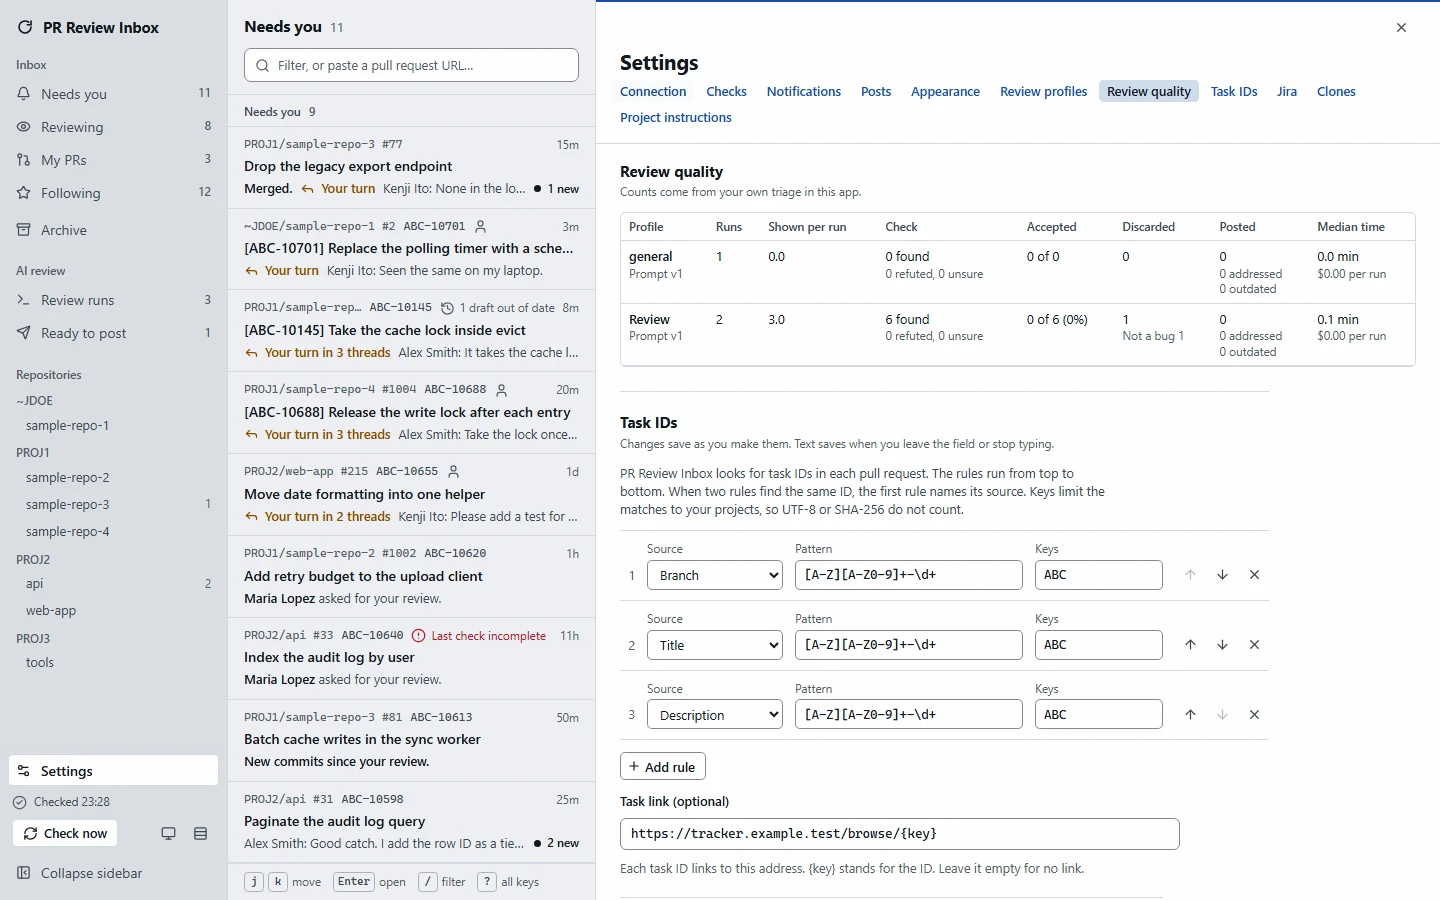
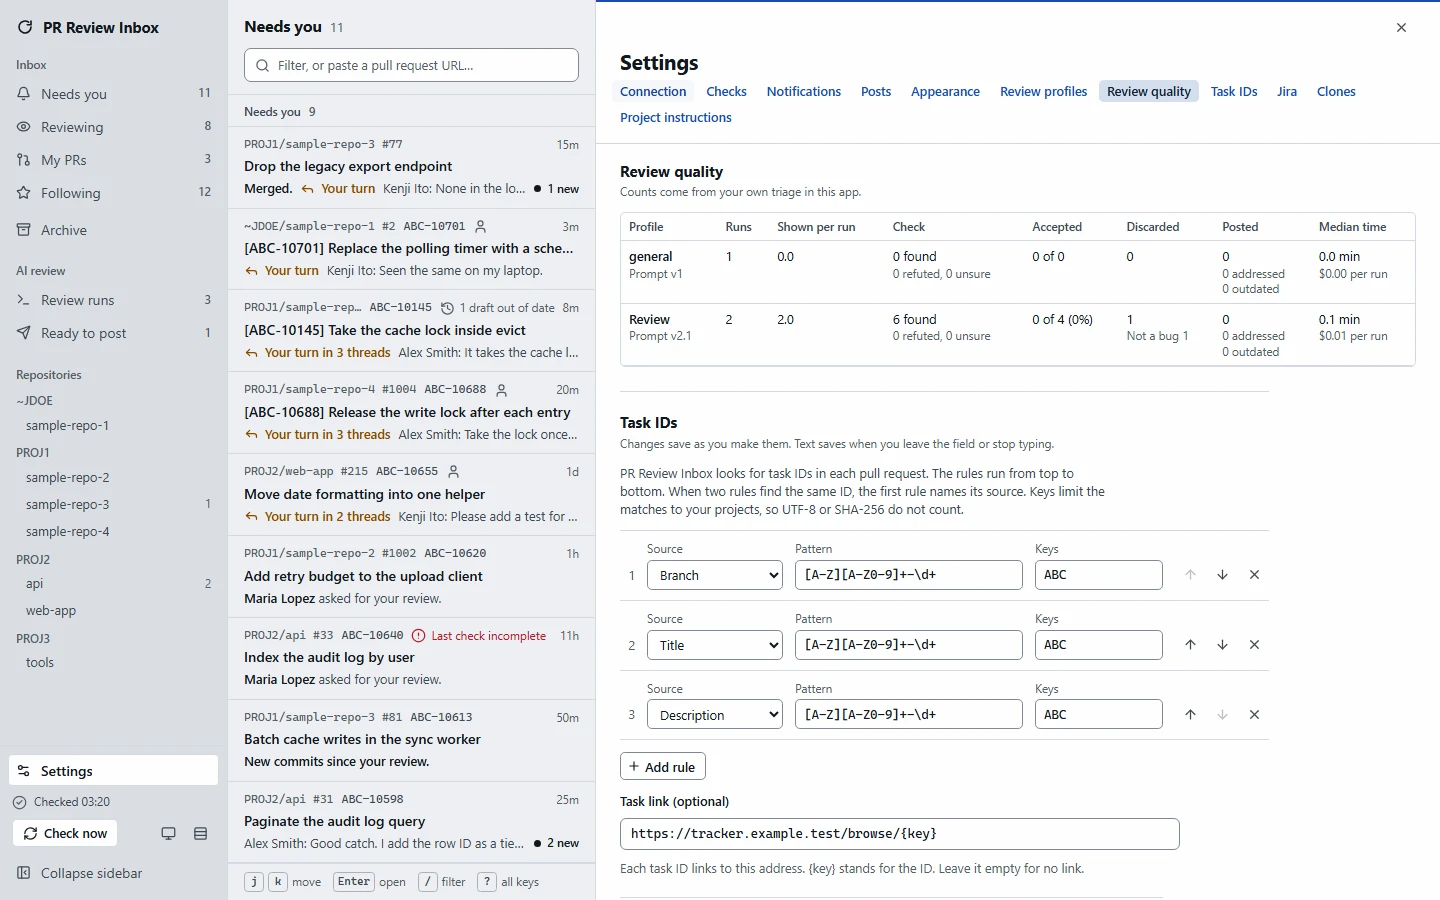
Expect two shown findings per run in the Review quality test
- Since the check phase, a balanced run keeps nits out of the main list, as spec 1.4 says. The fake review shows two findings per run and two of two accepted.
- The Review quality screenshot shows prompt version 2.1.

diff --git a/tests/e2e/stats.e2e.ts b/tests/e2e/stats.e2e.ts
@@ -74,9 +74,10 @@ test("AC-M5: a reason chip after a discard stores the reason, and Review quality
   await expect(rows).toHaveCount(1);
   const cells = rows.first().locator("td");
   // Runs, shown per run, check, accepted, discarded, posted.
+  // The run volume is balanced. Its main list holds no nits (spec.md section 1.4), so the README.md nit is not shown.
   await expect(cells.nth(0)).toHaveText("1");
-  await expect(cells.nth(1)).toHaveText("3.0");
-  await expect(cells.nth(3)).toHaveText("2 of 3 (67%)");
+  await expect(cells.nth(1)).toHaveText("2.0");
+  await expect(cells.nth(3)).toHaveText("2 of 2 (100%)");
   await expect(cells.nth(4)).toHaveText("1Not a bug 1");
   expect(await cells.nth(5).evaluate((e) => e.firstChild?.textContent)).toBe("2");
   await expect(cells.nth(5).locator("span")).toHaveText(["0 addressed (0%)", "0 outdated (0%)"]);
